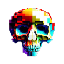
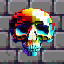
adding backgrounds

diff --git a/Topdown/Program.cs b/Topdown/Program.cs
@@ -11,8 +11,8 @@ Random generator = new Random();
 
 int screenWidth = 900;
 int screenHeight = 650;
-int charHeight = 50;
-int charWidth= 45;
+int charHeight = 64;
+int charWidth = 54;
 string scene = "start";
 int ScorePoints = 0;
 float speed = 8;
@@ -35,6 +35,7 @@ Texture2D characterImage = Raylib.LoadTexture("hollowhead.png");
 Texture2D Block = Raylib.LoadTexture("bwblock.png");
 Texture2D Heart = Raylib.LoadTexture("heartPoint.png");
 Texture2D Skull = Raylib.LoadTexture("skullGoal.png");
+Texture2D brickBG = Raylib.LoadTexture("brickBG.png");
 // List<Texture2D> textures = new();
 // textures.Add(Raylib.LoadTexture("heartPoint.png"));
 
@@ -43,18 +44,18 @@ int[,] mapData = {
     {0,0,0,0,0,0,1,1,1,1,1,1,1,1,1,1,1,1,1,1,1,1,1,1},
     {0,0,0,0,0,0,0,0,0,0,0,0,0,0,0,0,0,0,0,0,0,0,0,1},
     {0,0,0,0,0,0,0,0,0,0,0,0,0,0,0,0,0,0,0,0,0,0,0,1},
-    {0,0,3,0,0,0,0,0,0,0,0,0,0,0,0,0,0,0,0,0,0,0,0,1},
+    {0,0,3,0,1,0,0,0,0,0,0,0,0,0,0,0,0,0,0,0,0,0,0,1},
     {0,0,0,0,0,0,0,0,0,0,0,0,0,0,0,0,0,0,0,0,0,0,0,1},
     {2,0,0,0,0,0,0,0,0,0,3,0,0,0,0,0,0,0,0,0,0,0,0,1},
     {1,1,1,1,1,1,1,1,1,1,1,1,1,1,1,1,1,1,1,1,1,1,1,1},
-    {1,0,0,0,0,0,0,0,0,0,0,0,0,0,0,0,0,0,0,0,0,0,0,1},
-    {1,0,0,0,0,0,0,0,0,0,0,0,0,0,0,0,0,0,0,0,0,0,0,1},
-    {1,0,0,0,0,0,0,0,0,0,0,0,0,0,0,0,0,0,0,0,0,0,0,1},
-    {1,0,0,0,0,0,0,0,0,0,0,0,0,0,0,0,0,0,0,0,0,0,0,1},
-    {1,0,0,0,0,0,0,0,0,0,0,0,0,0,0,0,0,0,0,0,0,0,0,1},
-    {1,0,0,0,0,0,0,0,0,0,0,0,0,0,0,0,0,0,0,0,0,0,0,1},
-    {1,0,0,0,0,0,0,0,0,0,0,0,0,0,0,0,0,0,0,0,0,0,0,1},
-    {1,0,0,0,0,0,0,0,0,0,0,0,0,0,0,0,0,0,0,0,0,0,0,1},
+    {1,1,1,1,1,1,1,1,1,1,1,1,1,1,1,1,1,1,1,1,1,1,1,1},
+    {1,1,0,0,0,0,0,0,0,0,0,0,0,0,0,0,0,0,0,0,0,0,0,1},
+    {1,1,0,0,0,0,0,0,0,0,0,0,0,0,0,0,0,0,0,0,0,0,0,1},
+    {1,1,0,0,0,0,0,0,0,0,0,0,0,0,0,0,0,0,0,0,0,0,0,1},
+    {1,1,0,0,0,0,0,0,0,0,0,0,0,0,0,0,0,0,0,0,0,0,0,1},
+    {1,1,0,0,0,0,0,0,0,0,0,0,0,0,0,0,0,0,0,0,0,0,0,1},
+    {1,1,0,0,0,0,0,0,0,0,0,0,0,0,0,0,0,0,0,0,0,0,0,1},
+    {1,1,0,0,0,0,0,0,0,0,0,0,0,0,0,0,0,0,0,0,0,0,0,1},
     {1,1,1,1,1,1,1,1,1,1,1,1,1,1,1,1,1,1,1,1,1,1,1,1},
 };
 
@@ -233,6 +234,10 @@ while (!Raylib.WindowShouldClose())
         {
             for (int x = 0; x < mapData.GetLength(1); x++)
             {
+                if (mapData[y, x] == 0)
+                {
+                    Raylib.DrawTexture(brickBG, x * tilesize, y * tilesize, Color.WHITE);
+                }
                 if (mapData[y, x] == 1)
                 {
                     Raylib.DrawTexture(Block, x * tilesize, y * tilesize, Color.WHITE);
